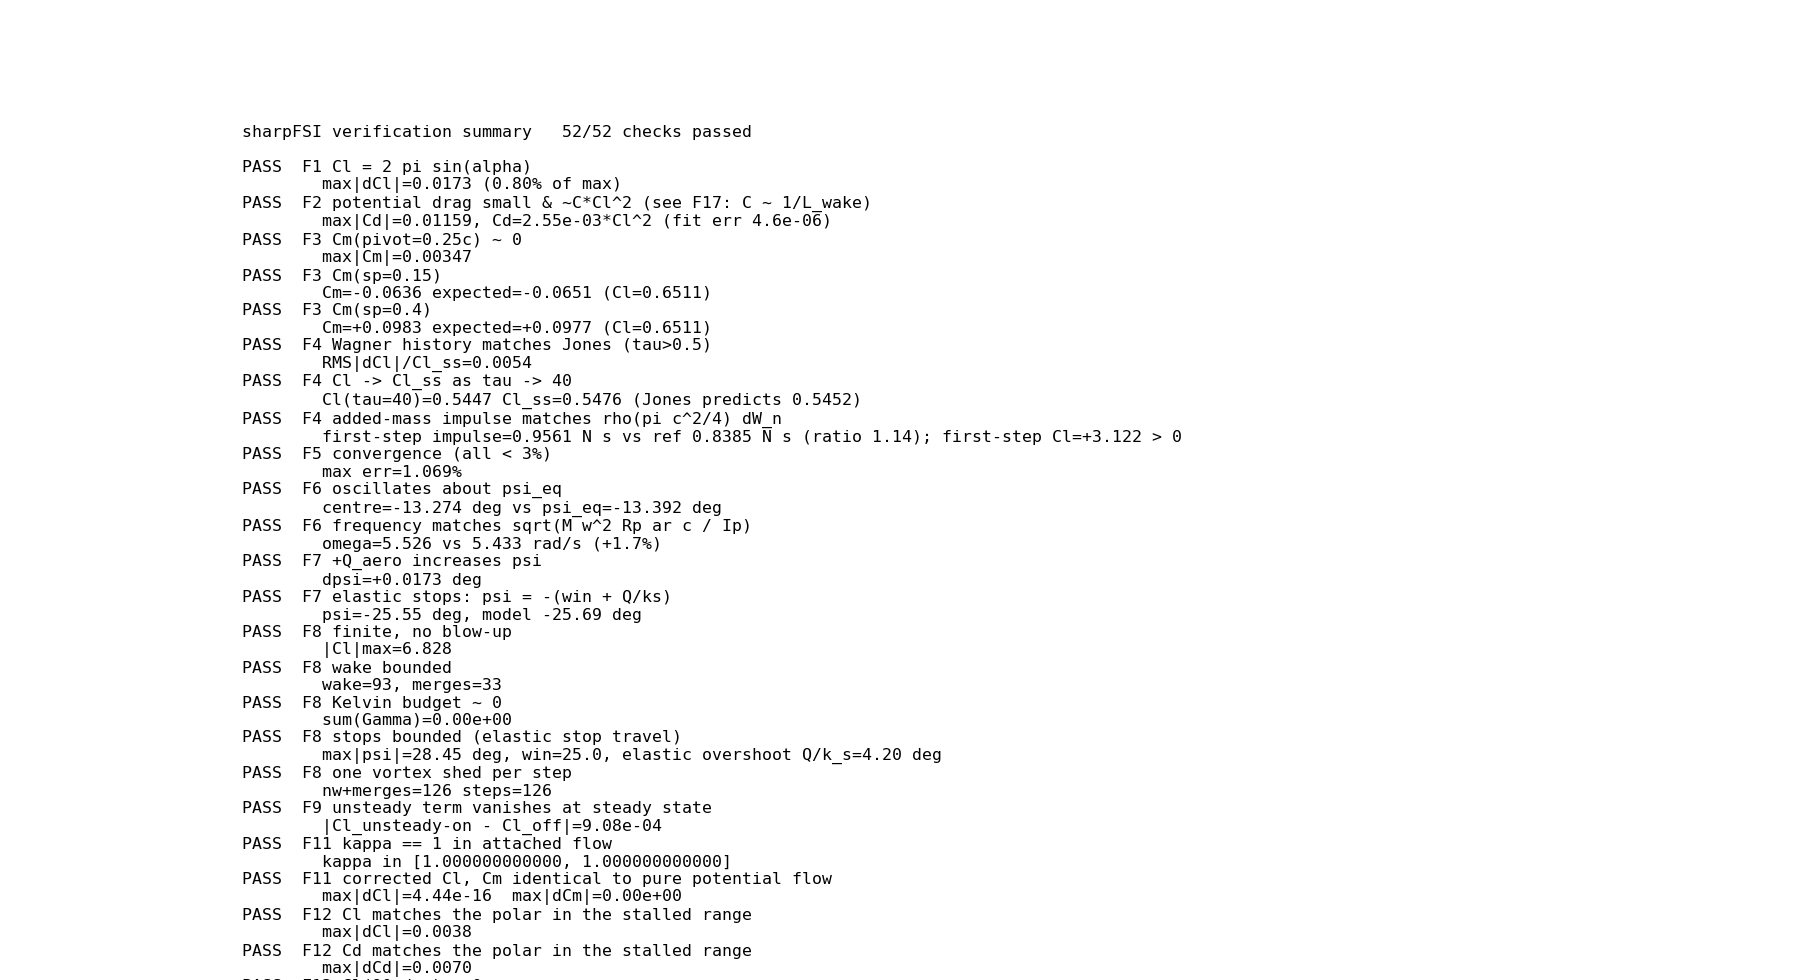
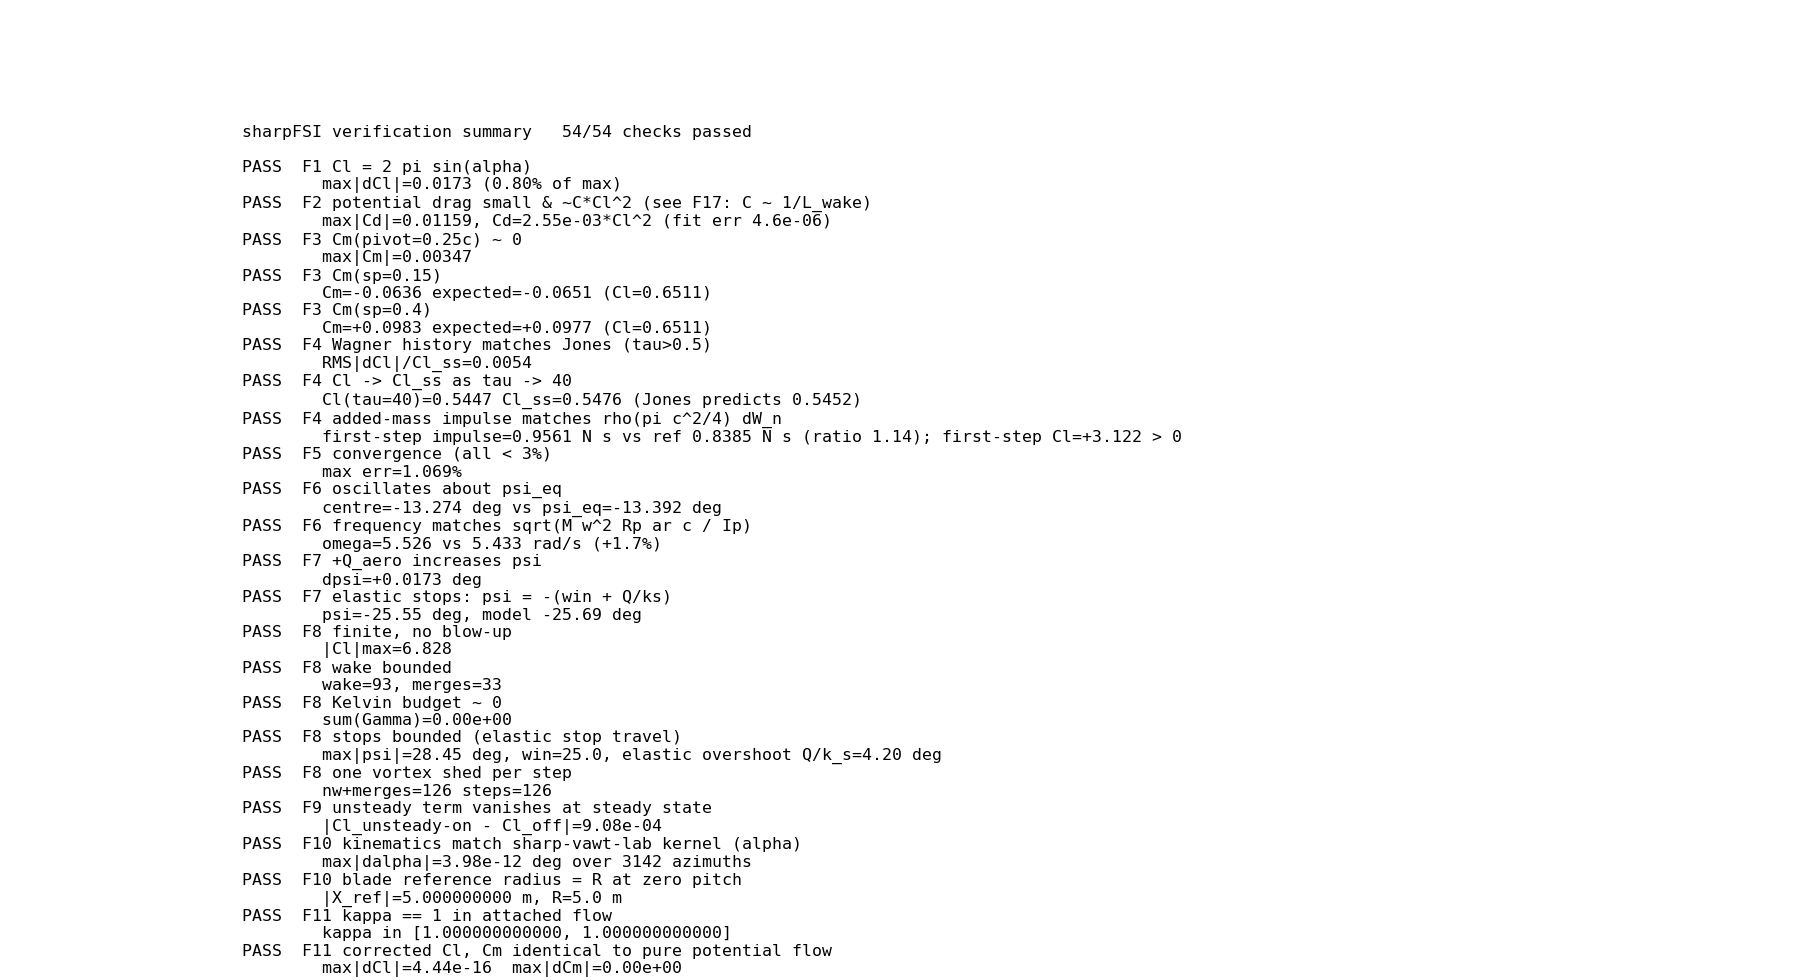
verify_solver: fix exit code when checks are skipped
Root-level verify_solver.py shim called sys.exit(main()) directly,
passing a bool (True) which sys.exit() treats as exit code 1.
Now converts the boolean return to 0/1 explicitly.

Fixes CI failure where all 52 checks passed but exit code was 1
because sharp-vawt-lab was absent and F10 was skipped.

Changed region(s): [[0.1231, 0.8571, 0.4615, 1.0]]

diff --git a/verify_solver.py b/verify_solver.py
@@ -8,4 +8,5 @@ sys.path.insert(0, "scripts")
 from verify_solver import main
 
 if __name__ == "__main__":
-    sys.exit(main())
+    ok = main()
+    sys.exit(0 if ok else 1)
